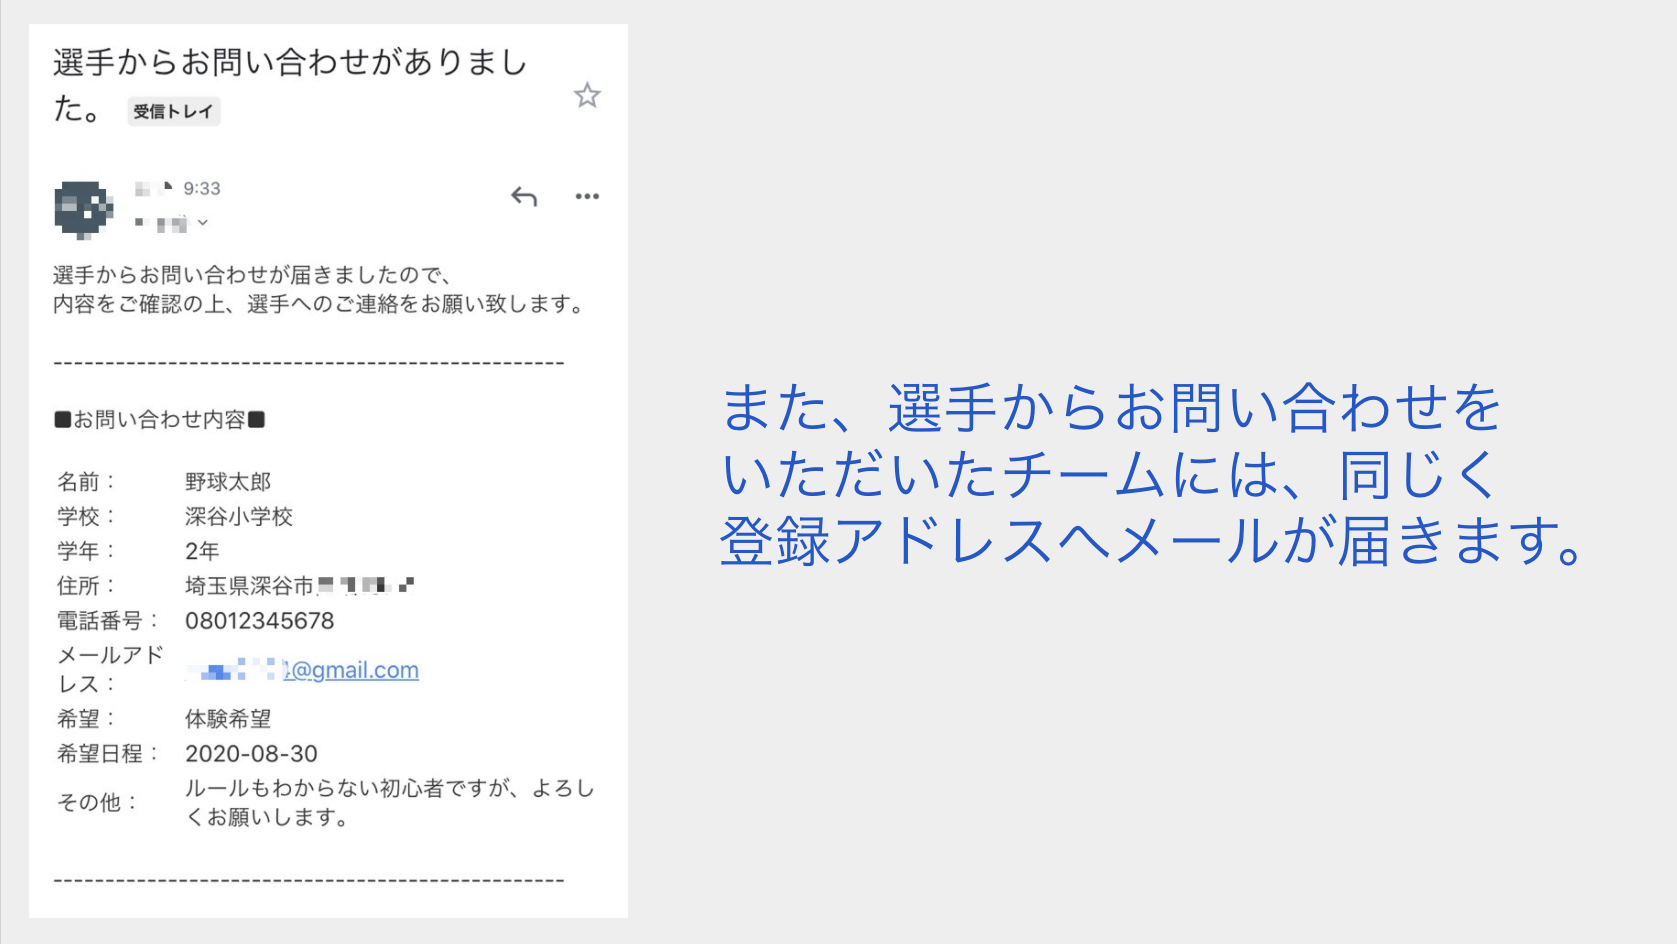
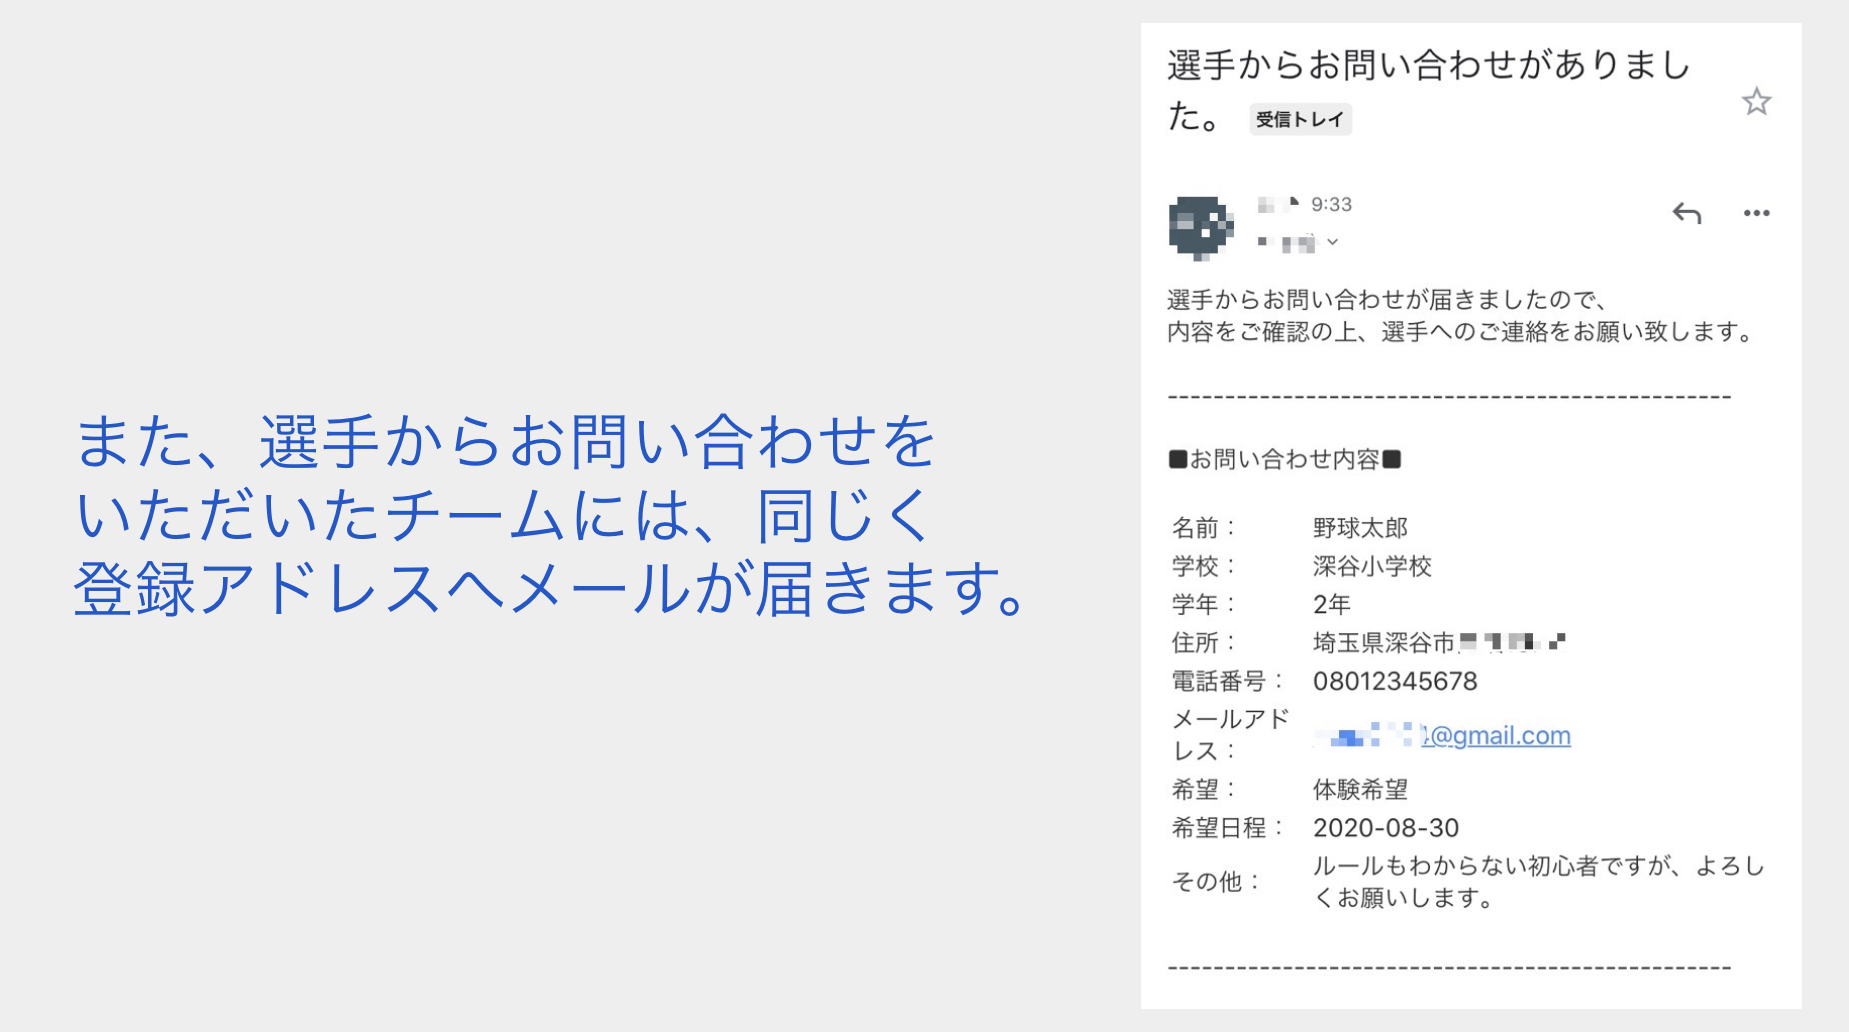
[Update] README.md

diff --git a/app/assets/stylesheets/application.scss b/app/assets/stylesheets/application.scss
@@ -492,6 +492,10 @@ input[type="email"] { // email_formの幅指定
 			line-height: 22px;
 			font-size: 15px;
 		}
+		&:hover { // 上に少し動く
+			-webkit-transform: translateY(-5px);
+			transform: translateY(-5px);
+		}
 	}
 }
 

diff --git a/README.md b/README.md
@@ -26,8 +26,12 @@
 - geocoder(地図表示)
 - dotenv-rails(環境変数化)
 
+### API
+- Maps JavaScript API
+- Geocoding API
+
 ### デプロイ環境
-- AWS(EC2, ElasticIP, RDS, Route53, IAM)
+- AWS(EC2, ElasticIP, RDS, Route53, CloudWatch, IAM)
 - puma
 - nginx
 - capistrano
@@ -66,9 +70,9 @@
 6. 選手からのお問い合わせ内容に答えたり、体験日や入団日の連絡をする。
 
 ## スクリーンショット
-ActionMailerによるメール通知
+### ActionMailerによるメール通知
 <img width="839" alt="slide1" src="https://user-images.githubusercontent.com/62239995/90945598-c4532c80-e460-11ea-8908-20455eab144c.png">
-<img width="839" alt="slide2" src="https://user-images.githubusercontent.com/62239995/90945965-84da0f80-e463-11ea-9021-7dda97173d80.png">
+<img width="925" alt="slide2" src="https://user-images.githubusercontent.com/62239995/90946082-822bea00-e464-11ea-8cf0-2f84e73f9835.png">
 
 ## 設計書関連
 
